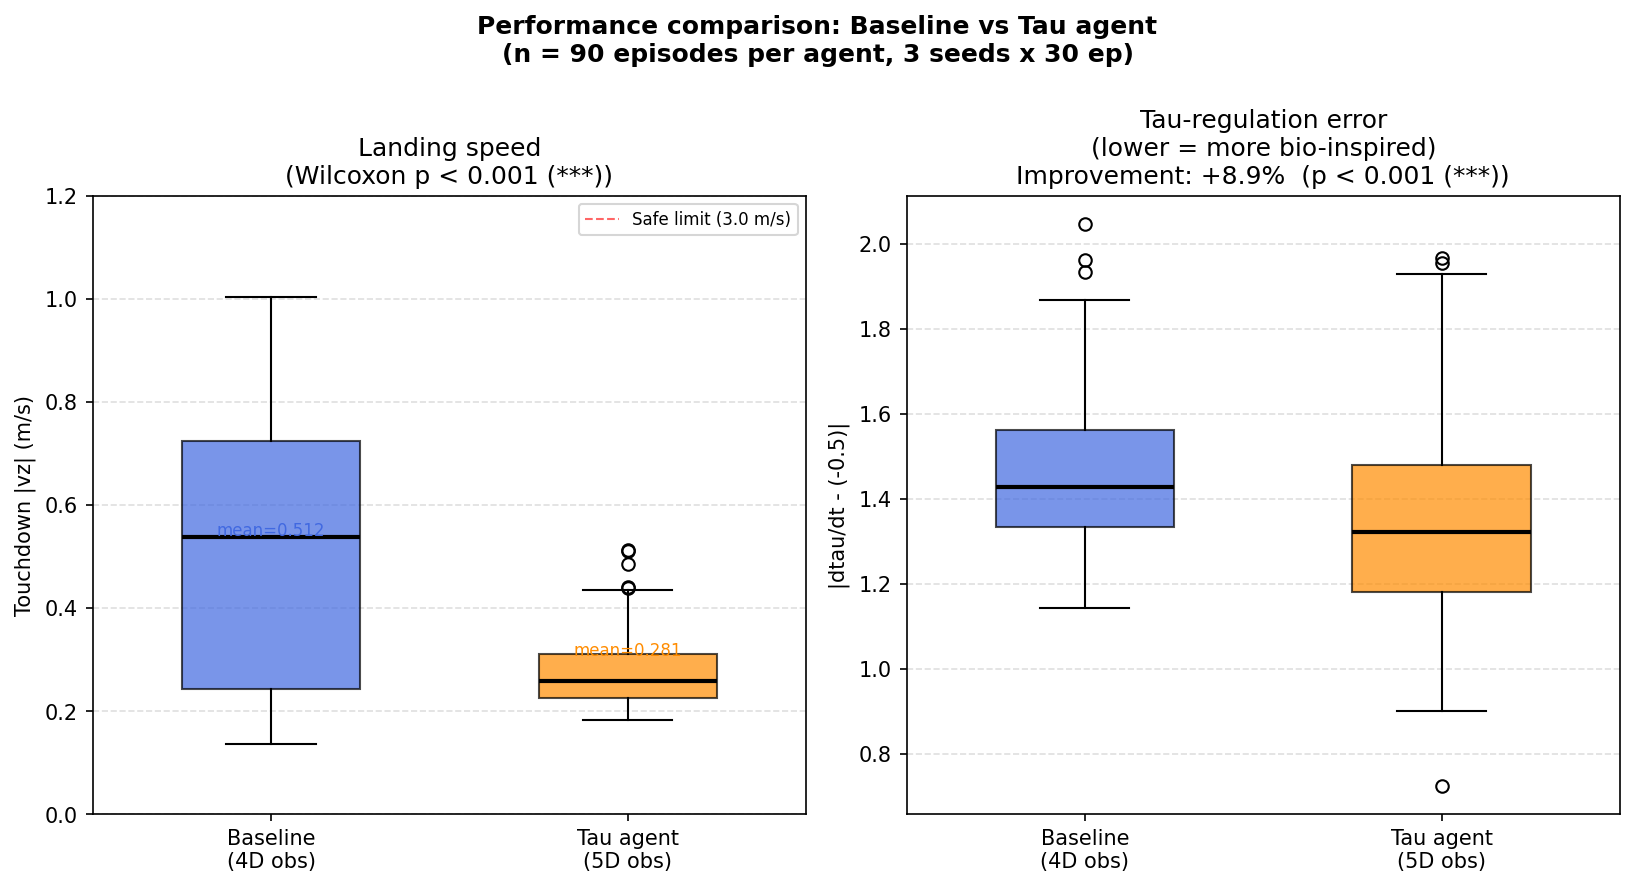
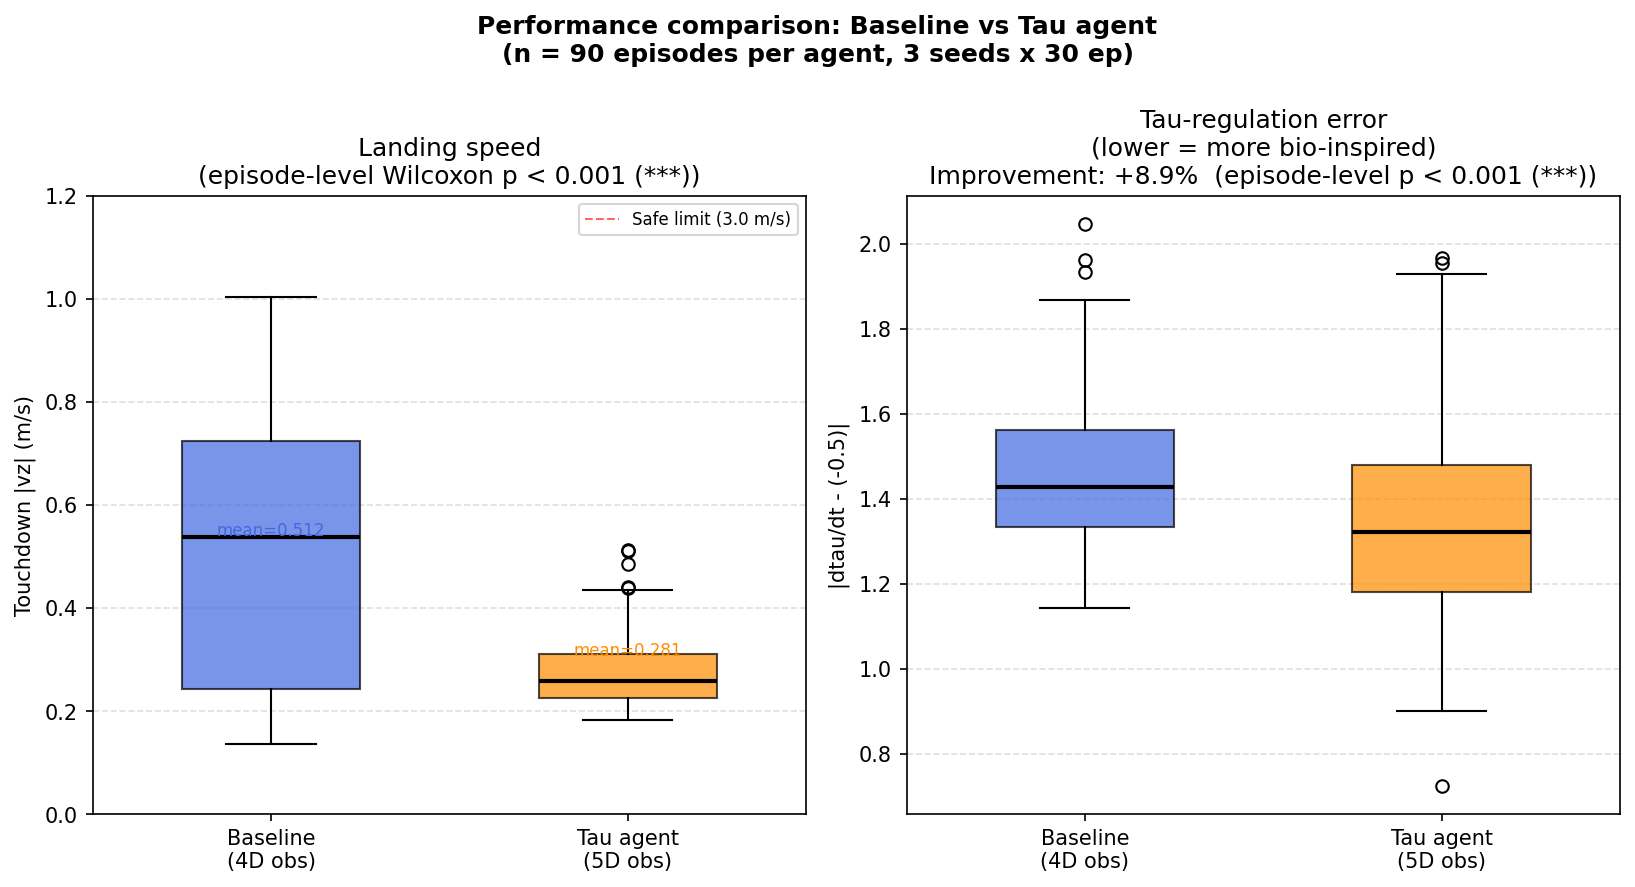
Update deterministic sensitivity analysis and final figures
Make fig_sensitivity() use fixed evaluation seeds (ep_seed = ep*7+13,
matching Experiment B) across all six lambda_tau values and three
training seeds, and add safe-landing success rate as a third tracked
metric. Regenerate Fig 3.5 as a 3-panel plot with corrected lambda_tau
labels. Also correct Fig 3.3 (tau-rate histogram: "Selected target",
tau-dot notation, drop the time-penalty annotation which belongs in
Discussion, not Results) and Fig 3.2 (label episode-level Wilcoxon).
Document the known limitation that the lambda_tau=0.10 sensitivity
point evaluates the 500k-step checkpoint against normalization
statistics saved after the full 1M-step run.

Changed region(s): [[0.5615, 0.1826, 0.967, 0.2131], [0.1248, 0.1826, 0.4367, 0.2131]]

diff --git a/analyse.py b/analyse.py
@@ -373,7 +373,7 @@ def fig_boxplots_and_stats():
                 linestyle="--", alpha=0.6, label=f"Safe limit ({DroneEnv2D.LAND_VZ_THRESHOLD} m/s)")
     ax1.set_ylabel("Touchdown |vz| (m/s)")
     ax1.set_ylim(0, 1.2)   # inzoomen — alle data ligt onder 1.1 m/s
-    ax1.set_title(f"Landing speed\n(Wilcoxon {sig})")
+    ax1.set_title(f"Landing speed\n(episode-level Wilcoxon {sig})")
     ax1.legend(fontsize=8)
     ax1.grid(True, axis="y", linestyle="--", alpha=0.4)
 
@@ -394,7 +394,7 @@ def fig_boxplots_and_stats():
     # Geen "perfecte regulatie"-lijn — dat wekt een onrealistische verwachting
     ax2.set_ylabel("|dtau/dt - (-0.5)|")
     ax2.set_title(f"Tau-regulation error\n(lower = more bio-inspired)\n"
-                  f"Improvement: {improvement:+.1f}%  ({sig_te})")
+                  f"Improvement: {improvement:+.1f}%  (episode-level {sig_te})")
     ax2.grid(True, axis="y", linestyle="--", alpha=0.4)
 
     plt.tight_layout()
@@ -411,8 +411,8 @@ def fig_tau_histogram(dtau_b, dtau_t):
     print("\nGenerating Fig 3: dtau/dt histogram...")
 
     fig, ax = plt.subplots(figsize=(9, 5))
-    fig.suptitle("Distribution of dtau/dt during descent phases\n"
-                 "Biological target: dtau/dt = -0.5 (grey dashed)",
+    fig.suptitle("Distribution of τ̇ during descent phases\n"
+                 "Selected target: τ̇ = -0.5 (grey dashed)",
                  fontsize=12, fontweight="bold")
 
     # X-as beperken tot -5 tot 1.0 — het positieve bereik is bijna leeg
@@ -426,32 +426,24 @@ def fig_tau_histogram(dtau_b, dtau_t):
             density=True, label=f"Tau agent (n={len(dtau_t):,} steps, mean={m_t:.2f})")
 
     ax.axvline(-0.5, color="grey", linewidth=2, linestyle="--",
-               label="Biological target: dtau/dt = -0.5")
+               label="Selected target: τ̇ = -0.5")
     ax.axvline(-1.0, color="lightcoral", linewidth=1.2, linestyle=":",
                label="Constant-speed descent (-1.0)")
     ax.axvline(m_b, color="royalblue",  linewidth=1.5, linestyle="-", alpha=0.8)
     ax.axvline(m_t, color="darkorange", linewidth=1.5, linestyle="-", alpha=0.8)
 
-    ax.set_xlabel("dtau/dt  (s/s)")
+    ax.set_xlabel("τ̇  (s/s)")
     ax.set_ylabel("Density")
     ax.set_xlim(-5, 1.0)
     # Legenda buiten de plot — voorkomt overlap met de histogrambalken
     ax.legend(fontsize=8.5, loc="upper left", framealpha=0.9)
     ax.grid(True, linestyle="--", alpha=0.4)
 
-    # Annotatie die uitlegt waarom beide agents ver van -0.5 afzitten
-    ax.annotate("Note: time penalty (-0.3/step)\npushes agents to land quickly,\ncompeting with tau-regulation",
-                xy=(-0.5, 0.6), xytext=(-4.5, 0.7),
-                fontsize=7.5, color="dimgrey",
-                bbox=dict(boxstyle="round,pad=0.3", facecolor="lightyellow",
-                          edgecolor="grey", alpha=0.8),
-                arrowprops=dict(arrowstyle="->", color="grey", lw=0.8))
-
     plt.tight_layout()
     path = os.path.join(FIG_DIR, "fig3_tau_histogram.png")
     plt.savefig(path, dpi=150, bbox_inches="tight")
     print(f"  Saved: {path}")
-    print(f"  Baseline mean dtau/dt: {m_b:.3f}  |  Tau mean dtau/dt: {m_t:.3f}")
+    print(f"  Baseline mean tau_dot: {m_b:.3f}  |  Tau mean tau_dot: {m_t:.3f}")
 
 
 # FIGUUR 4: Windrobuustheid
@@ -527,13 +519,46 @@ def fig_wind_robustness():
 
 # FIGUUR 5: Sensitiviteitsanalyse
 
+def _is_safe_landing(i, env_class):
+    """Safe-landing classificatie o.b.v. de drie landingsdrempels van de env."""
+    if i.get("truncated", False) or i["z"] > 1e-6:
+        return False
+    return (abs(i["x"]) <= env_class.LAND_X_THRESHOLD
+            and abs(i["vz"]) <= env_class.LAND_VZ_THRESHOLD
+            and abs(i["vx"]) <= env_class.LAND_VX_THRESHOLD)
+
+
+def _run_sensitivity_episode(model, vec_env, env_class, ep_seed):
+    """Eén episode met een vast startpunt (zelfde ep_seed-conventie als
+    run_paired_eval), zodat alle zes coëfficiënten x drie seeds exact
+    dezelfde 30 initial conditions gebruiken."""
+    obs = vec_env.reset()
+    try:
+        vec_env.env_method("reset", seed=ep_seed)
+        obs = vec_env.reset()
+    except Exception:
+        pass
+    ep_z, ep_vz = [], []
+    while True:
+        action, _ = model.predict(obs, deterministic=True)
+        obs, _, done, info = vec_env.step(action)
+        i = info[0]
+        ep_z.append(i["z"]); ep_vz.append(i["vz"])
+        if done[0]:
+            return {
+                "vz": abs(i["vz"]),
+                "te": compute_tau_error_traj(ep_z, ep_vz),
+                "safe": _is_safe_landing(i, env_class),
+            }
+
+
 def fig_sensitivity():
-    print("\nGenerating Fig 5: Sensitivity analysis...")
+    print("\nGenerating Fig 5: Sensitivity analysis (deterministic eval seeds)...")
 
     SEEDS = [0, 1, 2]
     results = []
     for coeff in COEFFS:
-        seed_vzs, seed_tes = [], []
+        seed_vzs, seed_tes, seed_successes = [], [], []
         for seed in SEEDS:
             model_path, norm_path = tau_paths(seed, coeff)
             if coeff == 0.10:
@@ -542,6 +567,15 @@ def fig_sensitivity():
                 # met de andere coëfficiënten (alleen 500k stappen). Gebruik
                 # in plaats daarvan het checkpoint op precies 500k stappen,
                 # voor een eerlijk vergelijkingspunt met gelijk budget.
+                # BEKENDE LIMITATIE: norm_path hierboven wijst nog naar de
+                # vec_normalize.pkl die pas na de volle 1M stappen is
+                # weggeschreven (VecNormalize wordt in train_all.py maar
+                # één keer opgeslagen, aan het einde van de run) -- dus dit
+                # 500k-checkpoint wordt geëvalueerd met observatienormalisatie
+                # uit 1M stappen, niet met de (nooit apart bewaarde) 500k-
+                # statistieken. De andere vijf coëfficiënten zijn wel intern
+                # consistent (500k-checkpoint + 500k-statistieken, want die
+                # runs waren zelf maar 500k stappen lang).
                 matched_ckpt = os.path.join(
                     "models_tau", f"seed_{seed}", "coeff_0p10",
                     f"ckpt_tau_s{seed}_500000_steps.zip")
@@ -555,87 +589,101 @@ def fig_sensitivity():
             if model is None:
                 continue
 
-            vz_list, te_list = [], []
-            obs = vec_env.reset()
-            ep_z, ep_vz = [], []
-            episodes_done = 0
-            while episodes_done < 30:
-                action, _ = model.predict(obs, deterministic=True)
-                obs, _, done, info = vec_env.step(action)
-                i = info[0]
-                ep_z.append(i["z"]); ep_vz.append(i["vz"])
-                if done[0]:
-                    vz_list.append(abs(i["vz"]))
-                    te_list.append(compute_tau_error_traj(ep_z, ep_vz))
-                    obs = vec_env.reset(); ep_z = []; ep_vz = []
-                    episodes_done += 1
+            vz_list, te_list, n_safe = [], [], 0
+            for ep in range(30):
+                ep_seed = ep * 7 + 13   # zelfde vaste seeds als Experiment B
+                r = _run_sensitivity_episode(model, vec_env, DroneEnvTau2D, ep_seed)
+                vz_list.append(r["vz"])
+                te_list.append(r["te"])
+                if r["safe"]:
+                    n_safe += 1
             vec_env.close()
 
             te_clean = [x for x in te_list if not np.isnan(x)]
             seed_vzs.append(np.mean(vz_list))
             seed_tes.append(np.mean(te_clean) if te_clean else float("nan"))
+            seed_successes.append(n_safe / 30)
 
         if not seed_vzs:
             continue
         results.append({
-            "coeff":    coeff,
-            "mean_vz":  np.mean(seed_vzs),
-            "std_vz":   np.std(seed_vzs),
-            "mean_te":  np.mean(seed_tes),
-            "std_te":   np.std(seed_tes),
+            "coeff":        coeff,
+            "mean_vz":      np.mean(seed_vzs),
+            "std_vz":       np.std(seed_vzs),
+            "mean_te":      np.mean(seed_tes),
+            "std_te":       np.std(seed_tes),
+            "mean_success": np.mean(seed_successes),
+            "std_success":  np.std(seed_successes),
+            "seed_success": list(seed_successes),
         })
-        print(f"  coeff={coeff:.2f}: mean_vz={np.mean(seed_vzs):.3f}+/-{np.std(seed_vzs):.3f}  "
-              f"tau_err={np.mean(seed_tes):.3f}+/-{np.std(seed_tes):.3f}  (n={len(seed_vzs)} seeds)")
+        print(f"  coeff={coeff:.2f}: success={np.mean(seed_successes):.1%}+/-{np.std(seed_successes):.1%} "
+              f"(per-seed {'/'.join(f'{s:.0%}' for s in seed_successes)})  "
+              f"vz={np.mean(seed_vzs):.3f}+/-{np.std(seed_vzs):.3f}  "
+              f"te={np.mean(seed_tes):.3f}+/-{np.std(seed_tes):.3f}  (n={len(seed_vzs)} seeds)")
 
     if not results:
         print("  No sensitivity data found.")
         return
 
-    coeffs   = [r["coeff"]   for r in results]
-    mean_vzs = [r["mean_vz"] for r in results]
-    std_vzs  = [r["std_vz"]  for r in results]
-    mean_tes = [r["mean_te"] for r in results]
-    std_tes  = [r["std_te"]  for r in results]
+    coeffs        = [r["coeff"]        for r in results]
+    mean_success  = [r["mean_success"] * 100 for r in results]
+    std_success   = [r["std_success"]  * 100 for r in results]
+    mean_vzs      = [r["mean_vz"]      for r in results]
+    std_vzs       = [r["std_vz"]       for r in results]
+    mean_tes      = [r["mean_te"]      for r in results]
+    std_tes       = [r["std_te"]       for r in results]
 
-    fig, axes = plt.subplots(1, 2, figsize=(12, 5))
-    fig.suptitle("Sensitivity analysis: effect of tau shaping coefficient\n"
-                 "(mean +/- std across 3 seeds, 30 eval episodes each, all"
+    fig, axes = plt.subplots(1, 3, figsize=(16, 5.2))
+    fig.suptitle("Sensitivity analysis: effect of tau-reward coefficient λτ\n"
+                 "(mean +/- std across 3 training seeds, 30 fixed-seed eval episodes each, all"
                  " six at the matched 500k-step checkpoint)",
-                 fontsize=10, fontweight="bold")
+                 fontsize=11, fontweight="bold")
 
-    for ax, means, stds, ylabel, title, color in zip(
-        axes,
-        [mean_vzs, mean_tes],
-        [std_vzs,  std_tes],
-        ["Mean touchdown |vz| (m/s)", "|dtau/dt - (-0.5)| (tau-regulation error)"],
-        ["Landing speed vs shaping coefficient",
-         "Tau-regulation error vs shaping coefficient"],
-        ["steelblue", "darkorange"],
-    ):
+    panels = [
+        (axes[0], mean_success, std_success, "Safe-landing success rate (%)",
+         "Success rate vs shaping coefficient", "seagreen"),
+        (axes[1], mean_vzs, std_vzs, "Mean touchdown |vz| (m/s)",
+         "Landing speed vs shaping coefficient", "steelblue"),
+        (axes[2], mean_tes, std_tes, "|dtau/dt - (-0.5)| (tau-regulation error)",
+         "Tau-regulation error vs shaping coefficient", "darkorange"),
+    ]
+
+    for ax, means, stds, ylabel, title, color in panels:
         means = np.array(means); stds = np.array(stds)
         ax.errorbar(coeffs, means, yerr=stds, fmt="o-", color=color,
-                    linewidth=2, markersize=8, capsize=4, elinewidth=1.5)
+                    linewidth=2.2, markersize=9, capsize=5, elinewidth=1.8)
 
         # De coëfficiënt uit de hoofdexperimenten markeren (0.10) -- dit is de
         # waarde die daadwerkelijk multi-seed is getraind, NIET per se het
         # empirische minimum hier (zie de Discussion in het verslag).
         if 0.10 in coeffs:
             idx = coeffs.index(0.10)
-            ax.axvline(0.10, color="grey", linewidth=1.2, linestyle="--", alpha=0.7,
-                       label="lambda=0.10 (used in main experiments)")
-            ax.scatter([coeffs[idx]], [means[idx]], s=120, zorder=5,
-                       color=color, edgecolors="black", linewidth=1.5)
+            ax.axvline(0.10, color="grey", linewidth=1.3, linestyle="--", alpha=0.7,
+                       label="λτ = 0.10 (used in main experiments)")
+            ax.scatter([coeffs[idx]], [means[idx]], s=140, zorder=5,
+                       color=color, edgecolors="black", linewidth=1.6)
 
-        ax.set_xlabel("TAU_SHAPING_COEF")
-        ax.set_ylabel(ylabel)
-        ax.set_title(title)
+        ax.set_xlabel("λτ", fontsize=11)
+        ax.set_ylabel(ylabel, fontsize=10)
+        ax.set_title(title, fontsize=10.5)
+        ax.tick_params(labelsize=9.5)
         ax.legend(fontsize=9)
         ax.grid(True, linestyle="--", alpha=0.5)
+
+    axes[0].set_ylim(-5, 105)
+    axes[0].yaxis.set_major_formatter(plt.FuncFormatter(lambda y, _: f"{y:.0f}%"))
 
     plt.tight_layout()
     path = os.path.join(FIG_DIR, "fig5_sensitivity.png")
     plt.savefig(path, dpi=150, bbox_inches="tight")
     print(f"  Saved: {path}")
+
+    print("\n  Deterministic sensitivity table:")
+    print(f"  {'lambda':>8}{'succ%':>8}{'succ(0/1/2)':>16}{'vz':>9}{'vz_std':>9}{'te':>9}{'te_std':>9}")
+    for r in results:
+        succ_seeds = "/".join(f"{s:.0%}" for s in r["seed_success"])
+        print(f"  {r['coeff']:>8.2f}{r['mean_success']*100:>7.1f}%{succ_seeds:>16}"
+              f"{r['mean_vz']:>9.3f}{r['std_vz']:>9.3f}{r['mean_te']:>9.3f}{r['std_te']:>9.3f}")
 
 
 # Startpunt
